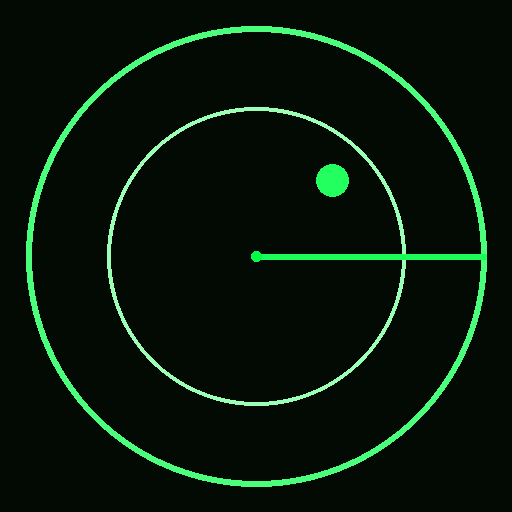
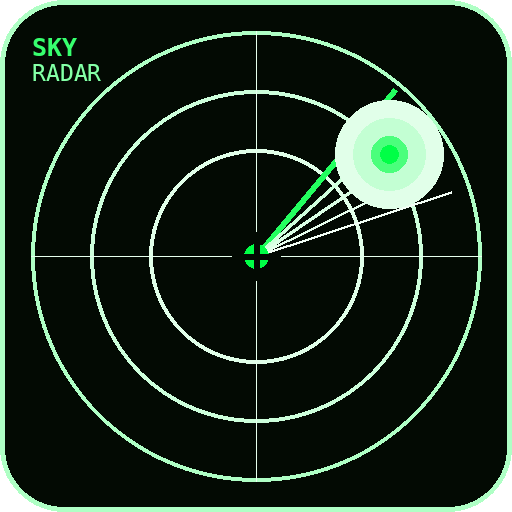
v2.3: icona radar, fix 404 offline, manifest GitHub Pages

diff --git a/sw.js b/sw.js
@@ -1,26 +1,79 @@
-const CACHE = 'skyradar-v1';
-const ASSETS = ['/', '/index.html', '/manifest.json', '/icon.svg'];
+// SkyRadar Service Worker v2.3
+// Rileva automaticamente il base path (funziona su GitHub Pages e qualsiasi subdirectory)
+const CACHE = 'skyradar-v23';
+const BASE = self.location.pathname.replace('/sw.js', '');
 
+const SHELL = [
+  BASE + '/',
+  BASE + '/index.html',
+  BASE + '/manifest.json',
+  BASE + '/icon.svg',
+  BASE + '/icon-192.png',
+  BASE + '/icon-512.png',
+];
+
+// Installa: metti in cache l'app shell
 self.addEventListener('install', e => {
-  e.waitUntil(caches.open(CACHE).then(c => c.addAll(ASSETS)));
+  e.waitUntil(
+    caches.open(CACHE)
+      .then(c => c.addAll(SHELL))
+      .catch(err => console.warn('SW install cache error:', err))
+  );
   self.skipWaiting();
 });
 
+// Attiva: elimina cache vecchie
 self.addEventListener('activate', e => {
-  e.waitUntil(caches.keys().then(keys =>
-    Promise.all(keys.filter(k => k !== CACHE).map(k => caches.delete(k)))
-  ));
+  e.waitUntil(
+    caches.keys().then(keys =>
+      Promise.all(keys.filter(k => k !== CACHE).map(k => caches.delete(k)))
+    )
+  );
   self.clients.claim();
 });
 
+// Fetch: strategia ibrida
 self.addEventListener('fetch', e => {
-  // API calls: sempre dalla rete
-  if (e.request.url.includes('airplanes.live') || e.request.url.includes('hexdb.io')) {
-    e.respondWith(fetch(e.request).catch(() => new Response('', { status: 503 })));
+  const url = new URL(e.request.url);
+
+  // API esterne -> sempre dalla rete, nessuna cache
+  if (url.hostname.includes('airplanes.live') ||
+      url.hostname.includes('hexdb.io') ||
+      url.hostname.includes('adsbdb.com') ||
+      url.hostname.includes('openstreetmap.org') ||
+      url.hostname.includes('flagcdn.com') ||
+      url.hostname.includes('unpkg.com') ||
+      url.hostname.includes('cartocdn.com') ||
+      url.hostname.includes('basemaps')) {
+    e.respondWith(
+      fetch(e.request).catch(() => new Response('', { status: 503 }))
+    );
     return;
   }
-  // App shell: cache-first
+
+  // App shell -> cache first, poi rete (con aggiornamento in background)
   e.respondWith(
-    caches.match(e.request).then(cached => cached || fetch(e.request))
+    caches.match(e.request).then(cached => {
+      if (cached) {
+        // Serve dalla cache immediatamente, aggiorna in background
+        fetch(e.request).then(fresh => {
+          if (fresh && fresh.status === 200) {
+            caches.open(CACHE).then(c => c.put(e.request, fresh));
+          }
+        }).catch(() => {});
+        return cached;
+      }
+      // Non in cache -> vai in rete
+      return fetch(e.request).then(response => {
+        if (response && response.status === 200) {
+          const clone = response.clone();
+          caches.open(CACHE).then(c => c.put(e.request, clone));
+        }
+        return response;
+      }).catch(() => {
+        // Rete non disponibile e non in cache -> serve index.html come fallback
+        return caches.match(BASE + '/index.html');
+      });
+    })
   );
 });
